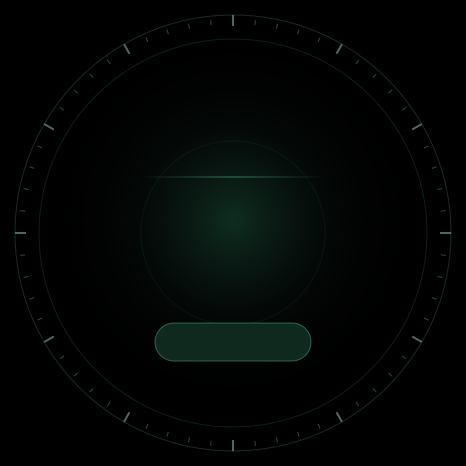
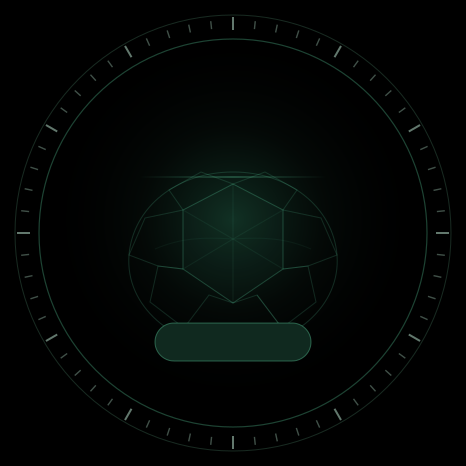
Add turtle shell dial and enhanced minute scale

diff --git a/README.md b/README.md
@@ -16,6 +16,8 @@
 - 时辰与干支显示
 - 灵龟八法主穴、配穴及余数计算
 - 八穴环形定位与当前穴位高亮
+- 低对比度玄甲龟背纹背景
+- 60 格环形分钟刻度与五分钟主刻度
 - 日期、日干支及电量显示
 - Amazfit GTR 4 真机适配
 
@@ -41,5 +43,5 @@ zeus preview
 ## 当前发布信息
 
 - Zepp App ID：`1123978`
-- 表盘版本：`1.5.0`
+- 表盘版本：`1.6.2`
 - 目标设备：Amazfit GTR 4
